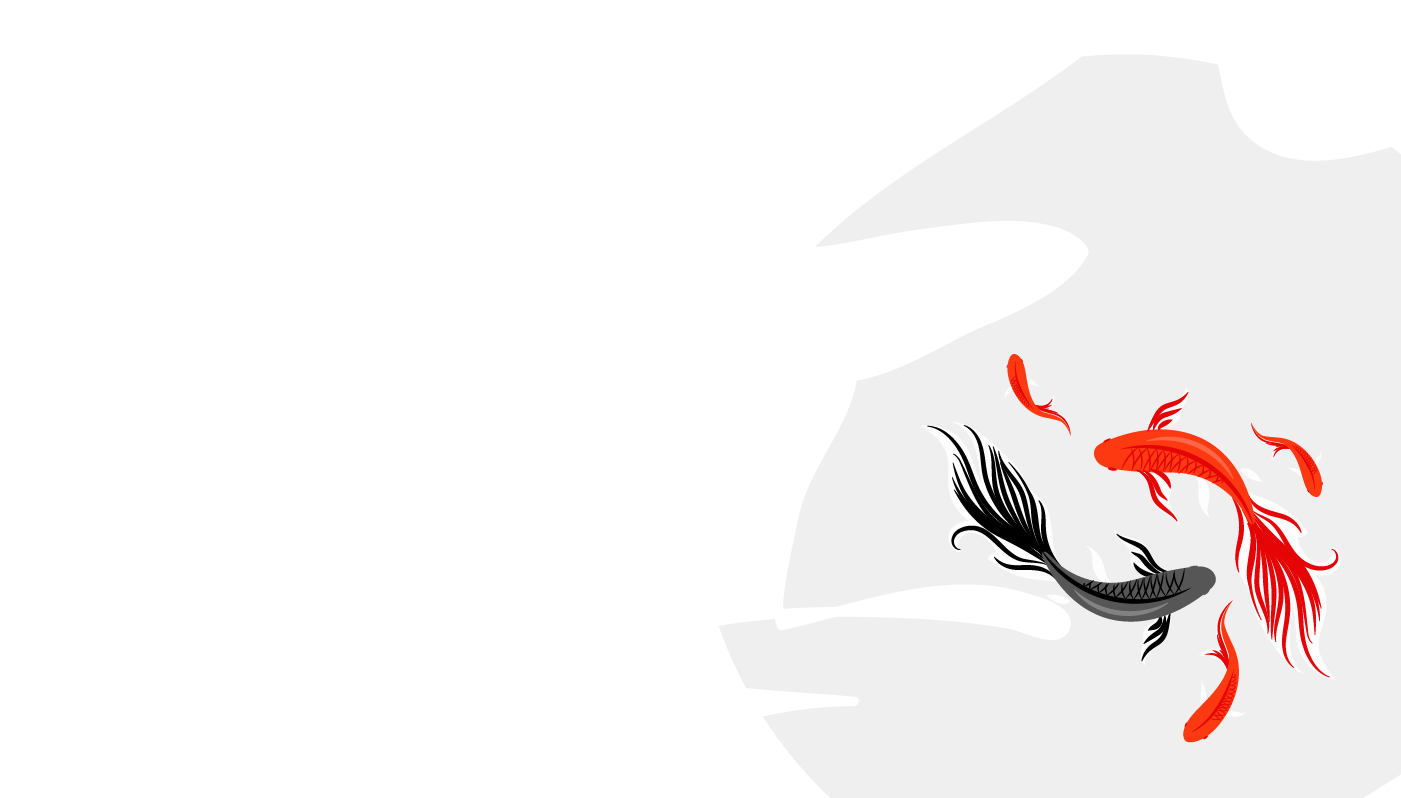
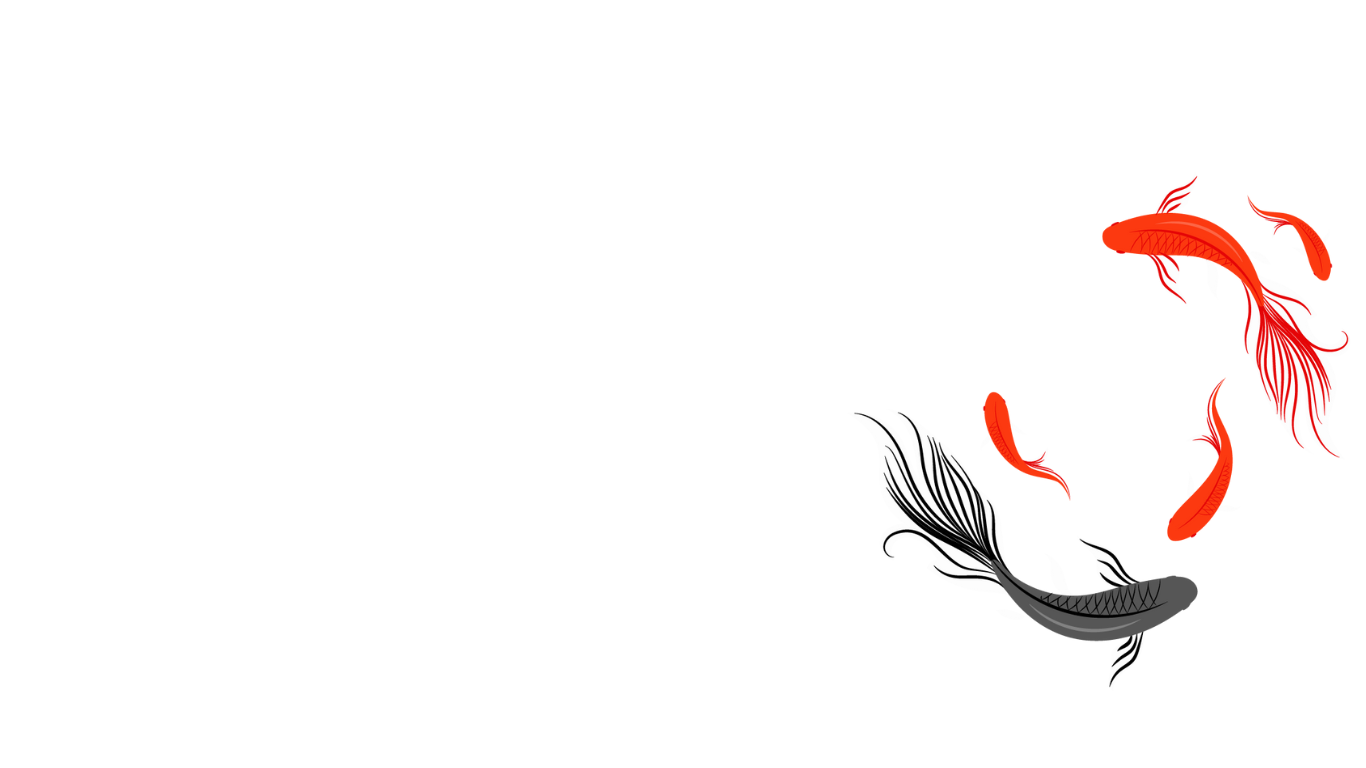
update homepage

Changed region(s): [[0.6457, 0.25, 0.9839, 0.9375]]

diff --git a/Frontend/Koi-Care-System/src/pages/HomePage.jsx b/Frontend/Koi-Care-System/src/pages/HomePage.jsx
@@ -1,0 +1,62 @@
+import React, { Component } from 'react'
+import homepageImage from '../assets/homepage.png';
+import logo from '../assets/logo.png';
+import { Link } from 'react-router-dom';
+
+export default class HomePage extends Component {
+  render() {
+    return (
+      <div>
+        {/* homepage 1  */}
+        <div className='bg-cover bg-no-repeat bg-center min-h-screen ' style={{ backgroundImage: `url(${homepageImage})` }}>
+        {/* header */}
+          <header className=" shadow large shadow-gray-300">         
+            {/* container for logo and nav */}
+            <div className="container mx-auto flex justify-between items-center py-4">
+              {/* logo */}
+              <div className="flex items-center">
+                <button className="p-2 rounded-md focus:outline-none focus:ring-2 focus:ring-blue-500">
+                  <img className="w-12" src={logo} alt="Logo" />
+                </button>
+                <a href="#" className="ml-4 text-xl font-bold text-gray-800">
+                  Koi Care System
+                </a>
+              </div>
+              {/* nav menu */}
+              <nav className="inline-block">
+                <ul className="flex space-x-8">
+                  <li><a href="#" className="text-black-600 hover:text-white hover:bg-red-500 font-medium text-xl px-3 py-2 rounded-md">Home</a></li>
+                  <li><a href="#" className="text-black-600 hover:text-white hover:bg-red-500 font-medium text-xl px-3 py-2 rounded-md">Our Feature</a></li>
+                  <li><a href="#" className="text-black-600 hover:text-white hover:bg-red-500 font-medium text-xl px-3 py-2 rounded-md">About</a></li>
+                  <li>
+                    <Link to='/login' className="text-black-600 hover:text-white hover:bg-red-500 font-medium text-xl px-3 py-2 rounded-md">Sign in</Link>
+                    </li>
+                </ul>
+              </nav>
+            </div>
+          </header>
+          <div className='content-homepage'>
+            {/* content home page  */}
+          <div className='flex justify-start items-center h-full'>
+            <div className='flex flex-col items-center mr-auto ml-10 pt-40 w-1/2'>
+              <h1 className='text-5xl font-bold text-black mb-4'>Travel to Japan</h1>
+              <p className='text-gray-600 text-lg mb-8'>
+                Lorem ipsum dolor sit amet, consectetuer adipiscing elit, sed diam nonummy nibh euismod tincidunt ut laoreet dolore magna aliquam erat volutpat. Ut wisi enim ad minim veniam, quis nostrud exerci tation ullamcorper suscipit lobortis nisl ut aliquip ex ea commodo consequat. Duis autem vel eum iriure dolor in hendrerit in vulputate velit esse molestie consequat, vel illum dolore eu feugiat nulla facilisis at vero eros et accumsan et iusto odio dignissim qui blandit
+              </p>
+              <button className='bg-white text-black border border-gray-300 border-solid  hover:bg-red-500 hover:text-white font-bold py-1 px-4 rounded focus:outline-none focus:shadow-outline'>
+                Learn More
+              </button>
+            </div>         
+          </div>
+          
+          </div>      
+        </div>
+        {/* homepage 2 */}
+        <div>
+        </div>
+      </div>
+      
+       
+    )
+  }
+}

diff --git a/Frontend/Koi-Care-System/src/App.jsx b/Frontend/Koi-Care-System/src/App.jsx
@@ -5,6 +5,7 @@ import Login from './pages/Login'
 import Register from './pages/Register'
 import path from './constants/path'
 import { ToastContainer } from 'react-toastify'
+import HomePage from './pages/HomePage'
 
 function App() {
   const routeElements = useRoutes([
@@ -19,6 +20,10 @@ function App() {
     {
       path: path.register,
       element: <Register />
+    },
+    {
+      path: path.homepage,
+      element: <HomePage />
     }
   ])
 

diff --git a/Frontend/Koi-Care-System/src/constants/path.js b/Frontend/Koi-Care-System/src/constants/path.js
@@ -1,8 +1,9 @@
 const path = {
-  home: '/',
+  homepage: '/',
   login: '/login',
   register: '/register',
-  member: '/member'
+  member: '/member',
+  home: '/home'
 }
 
 export default path
